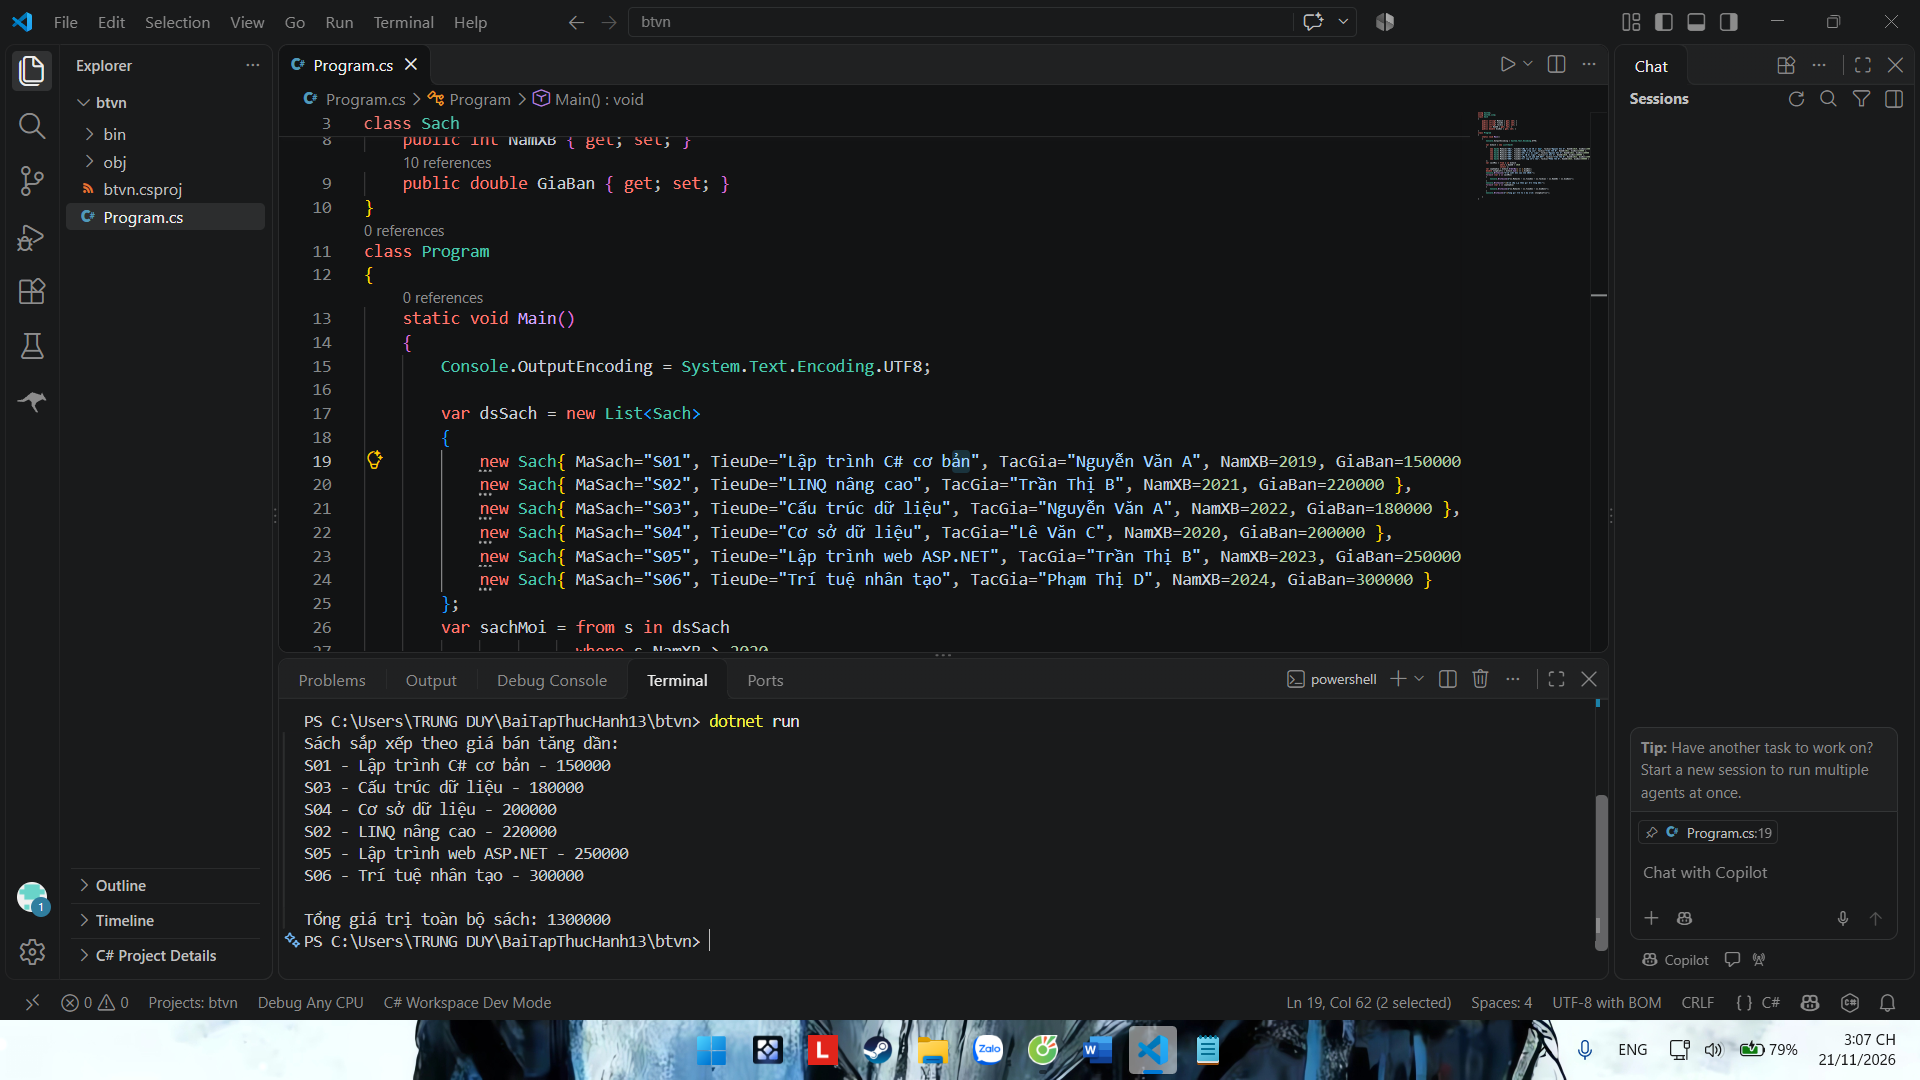
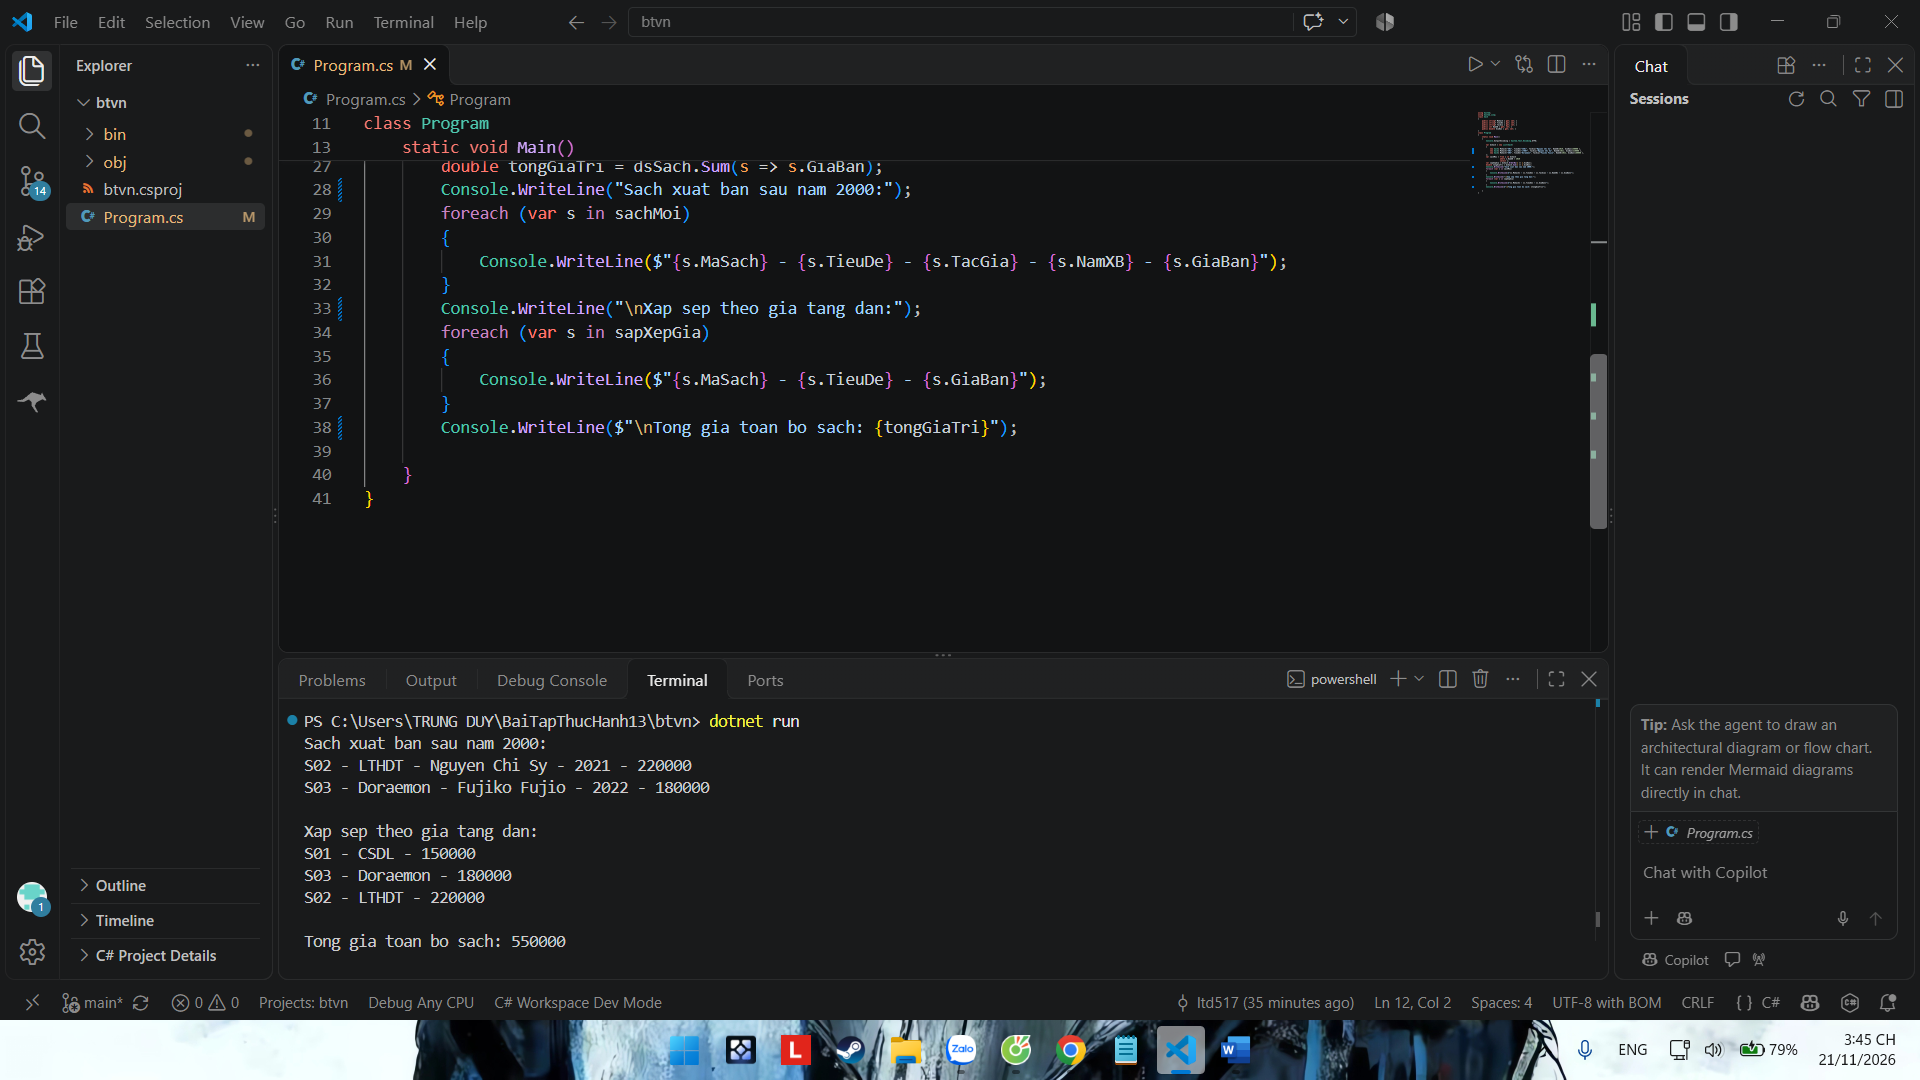
Thêm bài tập thực hành

diff --git a/btvn/Program.cs b/btvn/Program.cs
@@ -16,29 +16,26 @@ class Program
 
         var dsSach = new List<Sach>
         {
-            new Sach{ MaSach="S01", TieuDe="Lập trình C# cơ bản", TacGia="Nguyễn Văn A", NamXB=2019, GiaBan=150000 },
-            new Sach{ MaSach="S02", TieuDe="LINQ nâng cao", TacGia="Trần Thị B", NamXB=2021, GiaBan=220000 },
-            new Sach{ MaSach="S03", TieuDe="Cấu trúc dữ liệu", TacGia="Nguyễn Văn A", NamXB=2022, GiaBan=180000 },
-            new Sach{ MaSach="S04", TieuDe="Cơ sở dữ liệu", TacGia="Lê Văn C", NamXB=2020, GiaBan=200000 },
-            new Sach{ MaSach="S05", TieuDe="Lập trình web ASP.NET", TacGia="Trần Thị B", NamXB=2023, GiaBan=250000 },
-            new Sach{ MaSach="S06", TieuDe="Trí tuệ nhân tạo", TacGia="Phạm Thị D", NamXB=2024, GiaBan=300000 }
+            new Sach{ MaSach="S01", TieuDe="CSDL", TacGia="Nguyen Chi Sy", NamXB=2019, GiaBan=150000 },
+            new Sach{ MaSach="S02", TieuDe="LTHDT", TacGia="Nguyen Chi Sy", NamXB=2021, GiaBan=220000 },
+            new Sach{ MaSach="S03", TieuDe="Doraemon", TacGia="Fujiko Fujio", NamXB=2022, GiaBan=180000 },
         };
         var sachMoi = from s in dsSach
                       where s.NamXB > 2020
                       select s;
         var sapXepGia = dsSach.OrderBy(s => s.GiaBan);
         double tongGiaTri = dsSach.Sum(s => s.GiaBan);
-        Console.WriteLine("Sách xuất bản sau năm 2020:");
+        Console.WriteLine("Sach xuat ban sau nam 2000:");
         foreach (var s in sachMoi)
         {
             Console.WriteLine($"{s.MaSach} - {s.TieuDe} - {s.TacGia} - {s.NamXB} - {s.GiaBan}");
         }
-        Console.WriteLine("\nSách sắp xếp theo giá bán tăng dần:");
+        Console.WriteLine("\nXap sep theo gia tang dan:");
         foreach (var s in sapXepGia)
         {
             Console.WriteLine($"{s.MaSach} - {s.TieuDe} - {s.GiaBan}");
         }
-        Console.WriteLine($"\nTổng giá trị toàn bộ sách: {tongGiaTri}");
+        Console.WriteLine($"\nTong gia toan bo sach: {tongGiaTri}");
         
     }
 }

diff --git a/btvn/obj/Debug/net10.0/btvn.AssemblyInfo.cs b/btvn/obj/Debug/net10.0/btvn.AssemblyInfo.cs
@@ -13,7 +13,7 @@ using System.Reflection;
 [assembly: System.Reflection.AssemblyCompanyAttribute("btvn")]
 [assembly: System.Reflection.AssemblyConfigurationAttribute("Debug")]
 [assembly: System.Reflection.AssemblyFileVersionAttribute("1.0.0.0")]
-[assembly: System.Reflection.AssemblyInformationalVersionAttribute("1.0.0")]
+[assembly: System.Reflection.AssemblyInformationalVersionAttribute("1.0.0+5783e992eafaa95483c638802fcc57a270506dcd")]
 [assembly: System.Reflection.AssemblyProductAttribute("btvn")]
 [assembly: System.Reflection.AssemblyTitleAttribute("btvn")]
 [assembly: System.Reflection.AssemblyVersionAttribute("1.0.0.0")]
